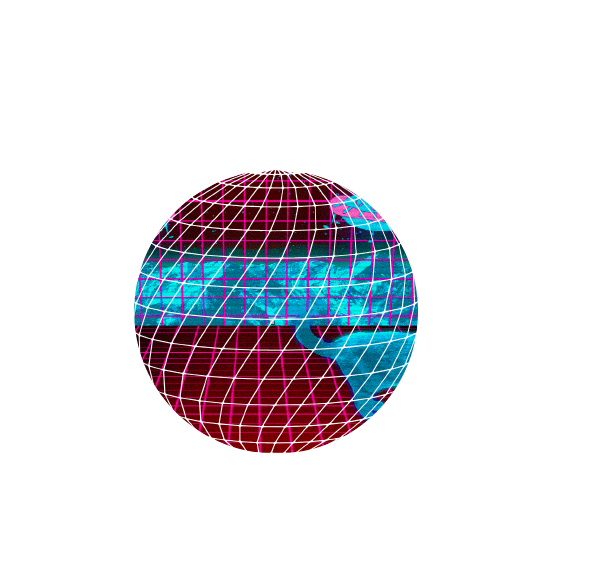
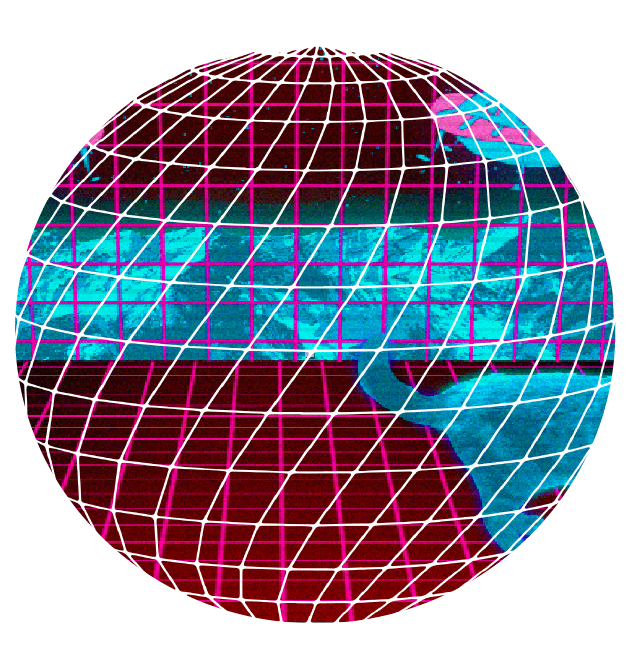
ppp

diff --git a/home.html b/home.html
@@ -1,6 +1,15 @@
 <!DOCTYPE html>
 <html>
+    <link rel="preconnect" href="https://fonts.googleapis.com">
+    <link rel="preconnect" href="https://fonts.gstatic.com" crossorigin>
+   
+   
+<link>
 
+@import
+<link rel="preconnect" href="https://fonts.googleapis.com">
+<link rel="preconnect" href="https://fonts.gstatic.com" crossorigin>
+<link href="https://fonts.googleapis.com/css2?family=Anton&family=Dela+Gothic+One&family=Nunito+Sans&family=Russo+One&family=ZCOOL+QingKe+HuangYou&display=swap" rel="stylesheet"> <link href="https://fonts.googleapis.com/css2?family=Anton&family=Dela+Gothic+One&family=Russo+One&family=ZCOOL+QingKe+HuangYou&display=swap" rel="stylesheet">
 <head>
     <meta charset="utf-8">
     <meta name="viewport" content="width=device-width">
@@ -14,12 +23,16 @@
 
 <body>
 <h1>
-    Chat Room 
+    Let's Chat
 </h1>
+<p>
+    Let's Chat is an attempt to deconstruct the standard chatting room. The website provides an immersive communication experience for the viewers. Music, motion graphics, and interaction are the key features of the website. The background is a motion graphic, the music search bar is on the right, and the sending text bar is on the bottom, allowing people to have Danmaku. Danmaku (literally "bullet curtain" or "curtain fire") is a Japanese term for an online video platform's subtitle system that allows users to write moving comments on a film as it plays.
+
+</p>
     <script src="home.js"></script>
     <center>  <div class="dvqiu">
         
-    <a href="music.html"> <img class="world1" src="./world1.png" /></a ></center>  
+    <a href="music.html"> <img class="world1" src="./world1.png" alt="Click into chat" style="width:600px;height:600px;" /></a ></center>  
     </div>
 
 </body>

diff --git a/cat.css b/cat.css
@@ -6,6 +6,7 @@
   } */ 
   body{
     background-color: black;
+        font-family: 'Dela Gothic One', cursive;
   }
   
   .dvqiu {
@@ -21,10 +22,11 @@
       position: absolute;
       background-color: black;
       z-index: 200;
+      font-family: 'Dela Gothic One', cursive;
   }
   
   #dvright {
-
+    font-family: 'Dela Gothic One', cursive;
     color:pink;
       font-weight:bolder;
       width: 25%;
@@ -41,6 +43,7 @@
   
   
 #sptitle {
+  font-family: 'Dela Gothic One', cursive;
     color:white;
     font-weight:bolder;
     text-align: center;
@@ -59,6 +62,7 @@
 #dvrightlist {
 height: 89%;
 z-index: 500;
+font-family: 'Dela Gothic One', cursive;
 }
 
 ul {
@@ -74,6 +78,7 @@ width: 598px;
 height: 48px;
 border: 1px solid black;
 margin: 10px 0;
+font-family: 'Dela Gothic One', cursive;
 }
 
 .search_input {
@@ -82,6 +87,7 @@ float: left;
 height: 48px;
 line-height: 28px;
 padding: 0 8px;
+font-family: 'Dela Gothic One', cursive;
 }
 
 .search_btn {
@@ -90,6 +96,8 @@ height: 48px;
 float: right;
 line-height:28px;
 margin-right: 1px;
+font-family: 'Dela Gothic One', cursive;
+
 }
 
 
@@ -102,4 +110,5 @@ left: 800px;
 top: 0;
 white-space: nowrap;
 border-radius: 70%;
+font-family: 'Dela Gothic One', cursive;
 }

diff --git a/home.css b/home.css
@@ -4,17 +4,32 @@ height: 100%;
 /* background-image: url("back.png"); */
 background-size:100% 100%; 
 background-color: black;
+
+
 }
 
 .dvqiu {
-    width:60%;
-    height:60%;
-    top: 50%;
+    position: absolute;
+    top: 20%;
+  left: 65%;
+  color:yellow;
 }
 
 h1 {
-    color:orange;
+    color:white;
     text-align:center;
+    font-family: 'Dela Gothic One', cursive;
+    font-size: 5em;
+}
+p{
+    color:white;
+    float: left;
+    font-family: 'Nunito Sans', sans-serif;
+    width: 50%;
+   height: 50%;
+   position: absolute;
+   font-size: 2em;
+   right: 45%;
 }
 /* #dvbottom {
     top: 92%;
